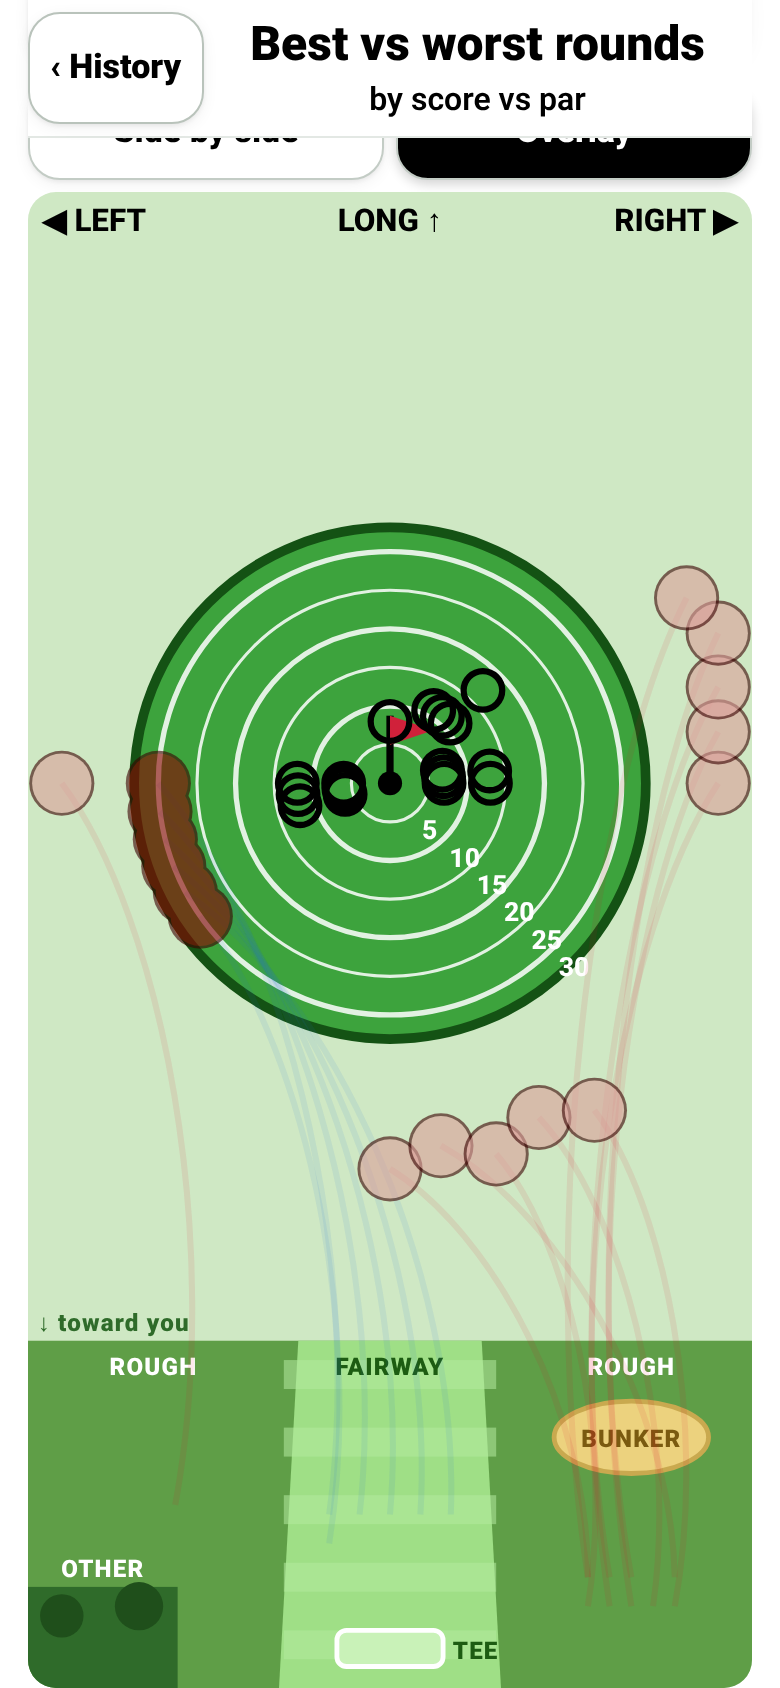
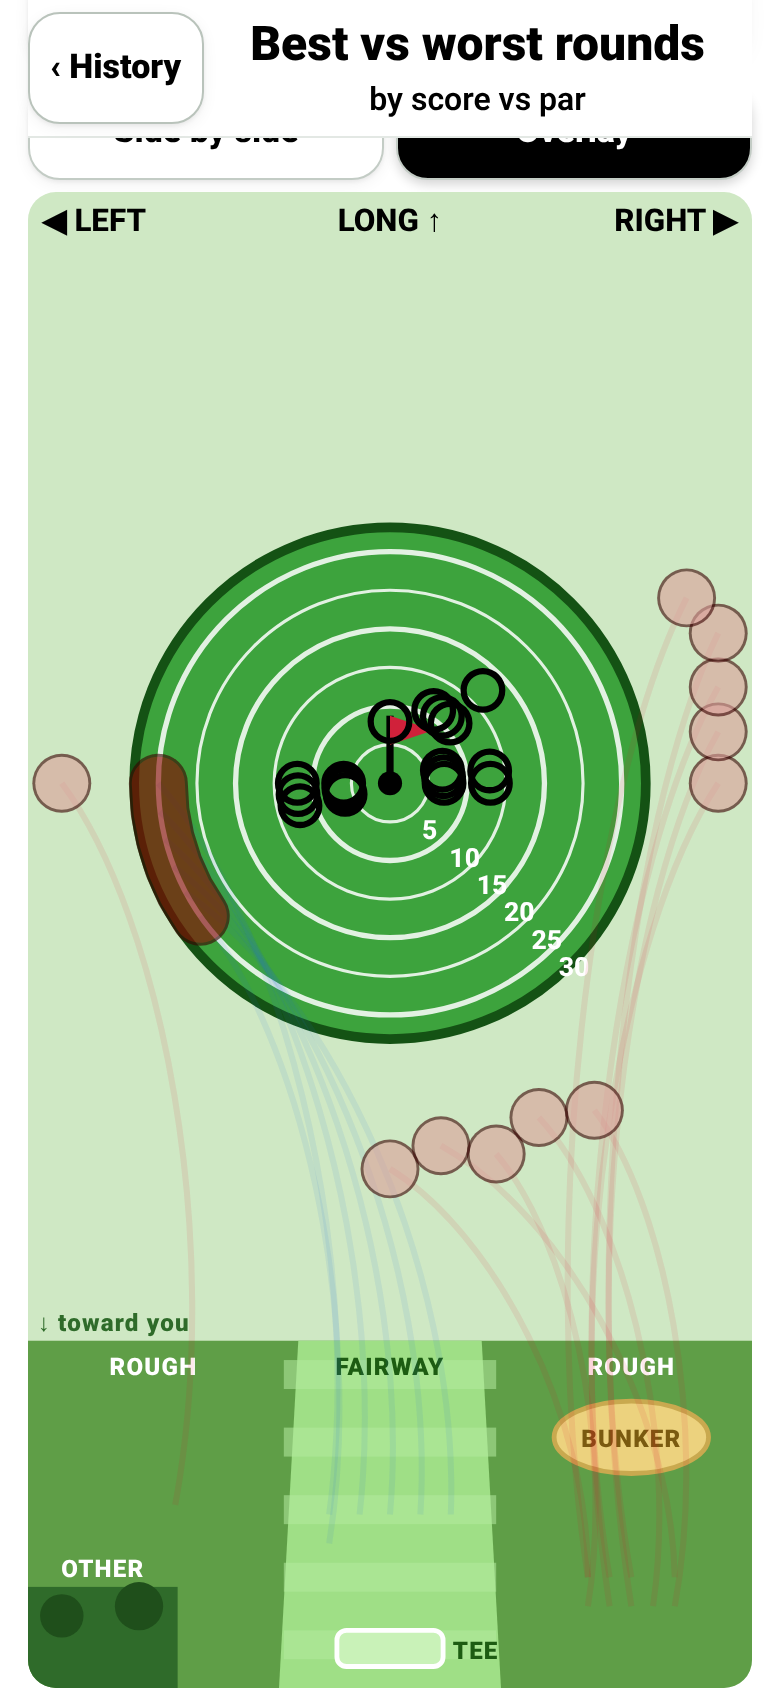
v55: heat-map islands follow the cluster shape (MST capsule outline)

diff --git a/app.js b/app.js
@@ -1176,6 +1176,18 @@
         var md = Infinity; G[a].forEach(function (p) { G[b].forEach(function (q) { md = Math.min(md, Math.hypot(p.rx - q.rx, p.ry - q.ry) - link(p, q)); }); }); if (md <= gap) { G[a] = G[a].concat(G[b]); G.splice(b, 1); merged = true; } } }
     return G.sort(function (a, b) { return b.length - a.length; });
   }
+  // Island outline that takes the cluster's shape: union of a disc per shot plus a round-capped band along the
+  // island's minimum spanning tree (so an elongated cluster is a sausage, an L-shaped one bends); drawn twice for
+  // a crisp thin border. Single fill colour, padded ~R px around the shots, rounded everywhere.
+  function islandShape(g, col, R) {
+    R = R || 11; var n = g.length, inT = [0], edges = [], best = g.map(function (p) { return [Math.hypot(p.x - g[0].x, p.y - g[0].y), 0]; });
+    var used = g.map(function (_, i) { return i === 0; });
+    for (var k = 1; k < n; k++) { var bi = -1; for (var i = 0; i < n; i++) if (!used[i] && (bi < 0 || best[i][0] < best[bi][0])) bi = i;
+      used[bi] = true; edges.push([best[bi][1], bi]); for (var j = 0; j < n; j++) if (!used[j]) { var d = Math.hypot(g[j].x - g[bi].x, g[j].y - g[bi].y); if (d < best[j][0]) best[j] = [d, bi]; } }
+    var path = g.map(function (p) { return 'M' + f1(p.x) + ' ' + f1(p.y) + 'h0.01'; }).join('') + edges.map(function (e) { return 'M' + f1(g[e[0]].x) + ' ' + f1(g[e[0]].y) + 'L' + f1(g[e[1]].x) + ' ' + f1(g[e[1]].y); }).join('');
+    return '<path class="hedge" d="' + path + '" fill="transparent" stroke="#3a0000" stroke-width="' + f1(2 * R + 2.4) + '" stroke-linecap="round" stroke-linejoin="round"/>' +
+      '<path class="hfill" d="' + path + '" fill="transparent" stroke="' + col + '" stroke-width="' + f1(2 * R) + '" stroke-linecap="round" stroke-linejoin="round"/>';
+  }
   function heatIslands(pts, link) {
     var id = pts.map(function (_, i) { return i; }), find = function (i) { while (id[i] !== i) i = id[i] = id[id[i]]; return i; };
     for (var i = 0; i < pts.length; i++) for (var j = i + 1; j < pts.length; j++) if (Math.hypot(pts[i].x - pts[j].x, pts[i].y - pts[j].y) <= link) id[find(i)] = find(j);
@@ -1209,8 +1221,7 @@
     var maxShare = Math.max.apply(null, isl.map(function (g) { return g.length; })) / pts.length;
     isl.forEach(function (g) { var share = g.length / pts.length, t = maxShare > 0 ? Math.min(1, 0.15 + 0.85 * share / maxShare) : 1, col = ramp(t);
       h += '<g class="hisland" data-n="' + g.length + '" data-share="' + share.toFixed(3) + '" data-col="' + col + '">' +
-        g.map(function (p) { return '<circle cx="' + f1(p.x) + '" cy="' + f1(p.y) + '" r="13.5" fill="#3a0000"/>'; }).join('') +
-        g.map(function (p) { return '<circle class="hblob" cx="' + f1(p.x) + '" cy="' + f1(p.y) + '" r="12.3" fill="' + col + '" fill-opacity=".92"/>'; }).join('') + '</g>'; });
+        islandShape(g, col) + g.map(function (p) { return '<circle class="hblob" cx="' + f1(p.x) + '" cy="' + f1(p.y) + '" r="1.6" fill="#3a0000" fill-opacity=".55"/>'; }).join('') + '</g>'; });
     var lone = isl.filter(function (g) { return g.length === 1; }).length, tagged = isl.length - lone;
     isl.forEach(function (g, i) {
       if (g.length === 1 && tagged) { h += '<g class="island lone" data-n="1"></g>'; return; }
@@ -1371,8 +1382,7 @@
     ov.classList.add('heat');
     if (wp.length) { var isl = heatIslandsReal(wp, heatReal(wp, C)), mx = Math.max.apply(null, isl.map(function (g) { return g.length; }));
       isl.forEach(function (g) { var t = Math.min(1, 0.15 + 0.85 * g.length / mx), a = [253, 224, 218], b = [139, 0, 0], col = 'rgb(' + a.map(function (v, i) { return Math.round(v + (b[i] - v) * t); }).join(',') + ')';
-        h += '<g class="hisland" data-n="' + g.length + '" opacity=".6">' + g.map(function (p) { return '<circle cx="' + f1(p.x) + '" cy="' + f1(p.y) + '" r="13.5" fill="#3a0000"/>'; }).join('') +
-          g.map(function (p) { return '<circle cx="' + f1(p.x) + '" cy="' + f1(p.y) + '" r="12.3" fill="' + col + '"/>'; }).join('') + '</g>'; }); }
+        h += '<g class="hisland" data-n="' + g.length + '" opacity=".6">' + islandShape(g, col) + '</g>'; }); }
     bp.forEach(function (p) { h += '<circle class="bestring" cx="' + f1(p.x) + '" cy="' + f1(p.y) + '" r="8" fill="none" stroke="#000" stroke-width="2.6"/>'; });
     var g = document.createElementNS('http://www.w3.org/2000/svg', 'g'); g.setAttribute('id', 'cmplayer'); g.innerHTML = h; ov.appendChild(g);
     src.parentNode.remove();

diff --git a/sw.js b/sw.js
@@ -1,5 +1,5 @@
 // Offline support: cache the whole app on install, serve cache-first.
-const CACHE = 'golf-sg-v54';
+const CACHE = 'golf-sg-v55';
 const ASSETS = ['./', './index.html', './styles.css', './sg.js', './app.js', './config.js', './onedrive.js', './vendor/msal-browser.min.js', './vendor/jspdf.umd.min.js',
   './manifest.webmanifest', './icons/apple-touch-icon.png', './icons/icon-192.png',
   './icons/icon-512.png', './icons/icon-512-maskable.png'];
